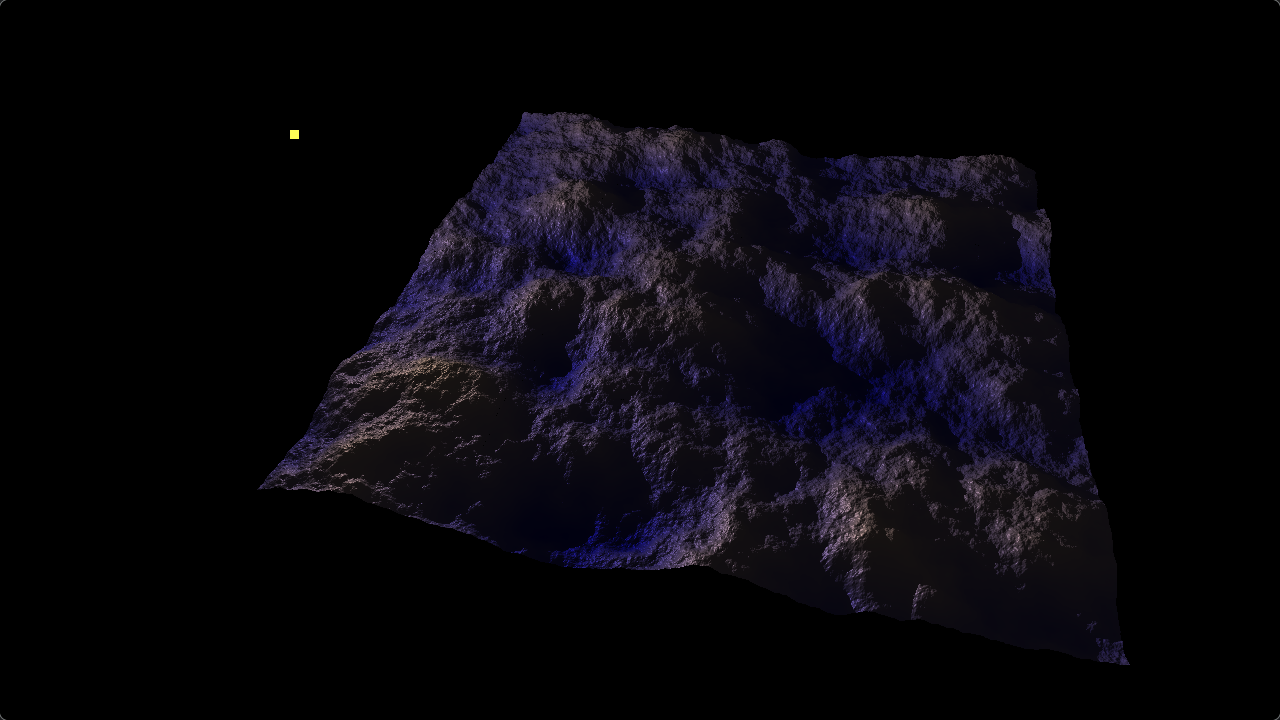
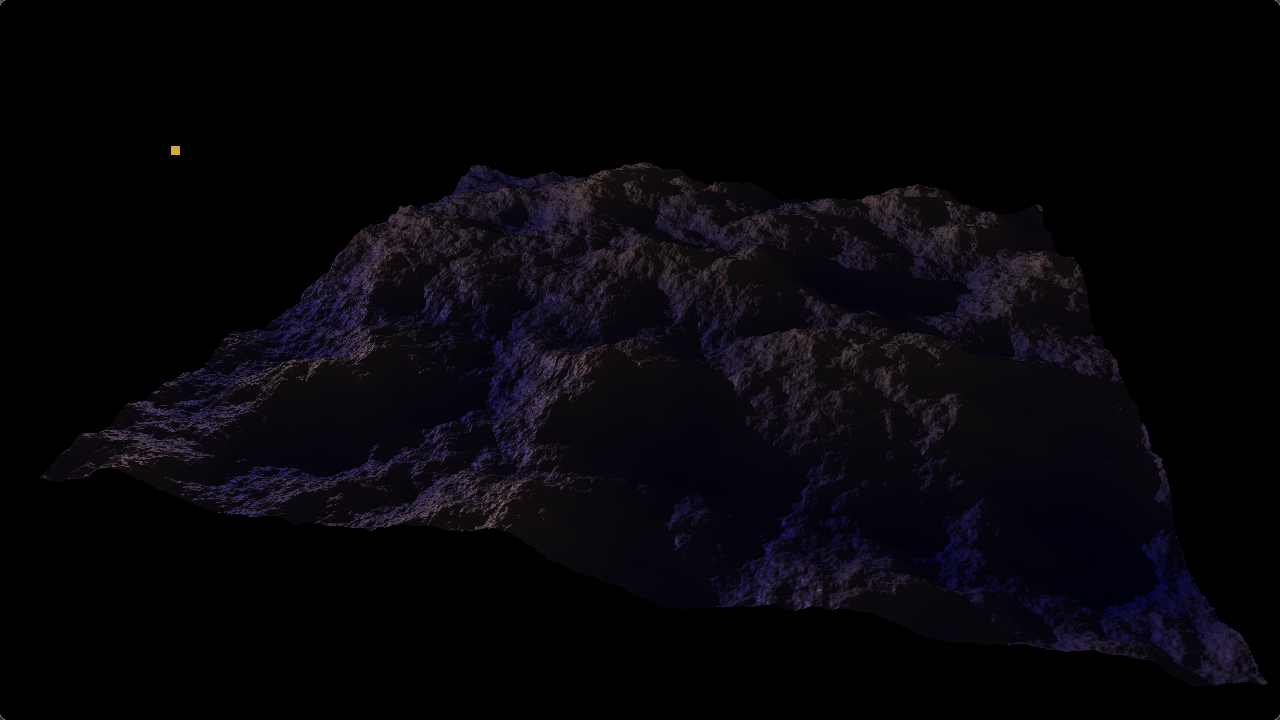
Update README and constants

diff --git a/src/constants.h b/src/constants.h
@@ -7,7 +7,7 @@ constexpr unsigned int kGeographyCountShort{1 << 2};
 constexpr unsigned int kGeographyCountLong{kGeographyCountShort << 0};
 
 // Size of each Geography grid
-constexpr std::size_t kGeographyShort{1 << 10};
+constexpr std::size_t kGeographyShort{1 << 9};
 constexpr std::size_t kGeographyLong{kGeographyShort << 0};
 constexpr float kHeightMultiplier{kGeographyShort * 0.25};
 
@@ -19,7 +19,7 @@ constexpr std::size_t kMinDetail{1 << 3};
 constexpr size_t kMaxThreads{4};
 
 // Detail of the shadow maps generated by point lights
-constexpr GLsizei kShadowMapSize{kGeographyLong * kGeographyCountShort << 1};
+constexpr GLsizei kShadowMapSize{1 << 13};
 
 // Camera properties
 constexpr float kNearPlane{0.1};
@@ -28,6 +28,12 @@ constexpr float kFOV{45};
 
 // Ideal program FPS
 constexpr auto kFPS{60};
+
+// Mouse sensitivity
+constexpr auto kRotateDelta{.0025f};
+
+// Move speed
+constexpr auto kMoveDelta{kGeographyShort * 0.025f};
 
 // Calculate the total number of vertices_ needed for the entire grid
 constexpr std::size_t kTotalVertices{kGeographyShort * kGeographyLong};

diff --git a/src/renderer.cpp b/src/renderer.cpp
@@ -78,7 +78,9 @@ void Renderer::InitGeom() {
 }
 
 void Renderer::Display() const {
-  light_->GenerateCubeMaps(objects_);
+  if (useShadows_) {
+    light_->GenerateCubeMaps(objects_);
+  }
 
   glViewport(0, 0, viewport_width_, viewport_height_);
   glClearColor(0, 0, 0, 1);
@@ -197,8 +199,6 @@ void Renderer::PassiveMotion(const int x, const int y) {
   HandleMouseMove(x, y, false);
 }
 
-const auto kRotateDelta = .0025f;
-
 void Renderer::HandleMouseMove(const int x, const int y, const bool active) {
   if (active) {
     camera_.RelativeRotate(
@@ -209,8 +209,6 @@ void Renderer::HandleMouseMove(const int x, const int y, const bool active) {
   last_mouse_x_ = x;
   last_mouse_y_ = y;
 }
-
-constexpr auto kMoveDelta = kGeographyShort * .01f;
 
 void Renderer::HandleMovementKey(const unsigned char key, const bool down) {
   switch (key) {

diff --git a/README.md b/README.md
@@ -9,7 +9,15 @@ Set up using CMake, which Visual Studio should recognize.
 ### Sunset
 
 This image shows a "sunset".
-Contains `4x4=16` tiles each containing `(1<<10)^2` points, for a total of 16,777,216 vertices.
+Contains `4x4` tiles each containing `(1<<9)^2` points, for a total of 4,194,304 vertices.
 Shadows update in real-time with sun position.
 
 <img alt="Detailed heightmap resembling a mountain range is lit softly from the side." src="./img/sunset.png" width="640">
+
+### Stress Test
+
+Putting as many vertices as we can on the shader.
+Contains `32x64` tiles each containing `(1<<8)^2` points for a total of 134,217,728 vertices.
+Renders at barely above 1 frame per second on a 6950XT and uses 7.69GiB of VRAM.
+
+<img alt="Large heightmap from far away, looking almost like an ocean." src="./img/stress.png" width="640">
